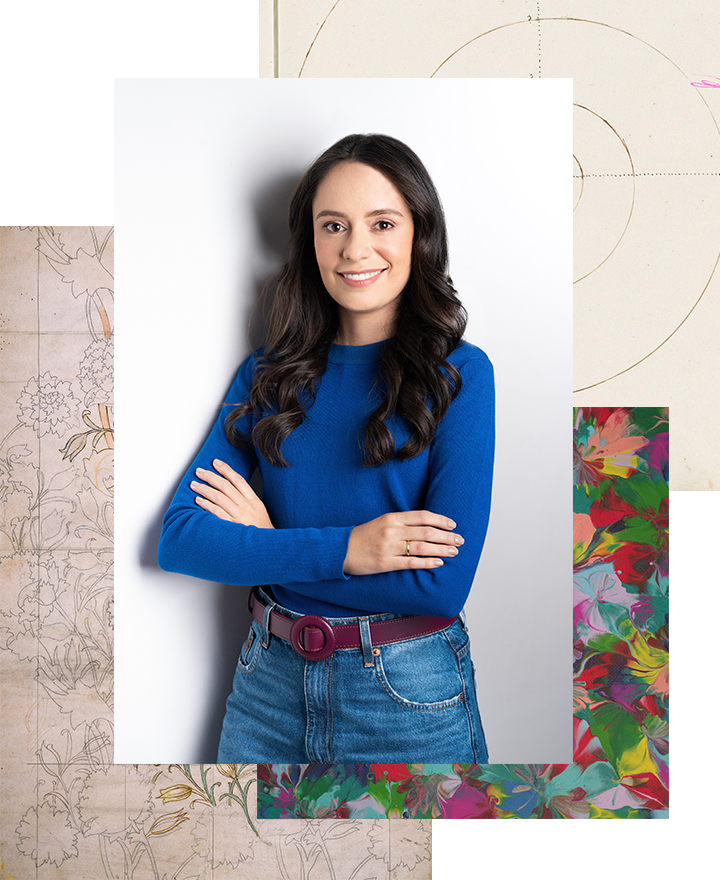
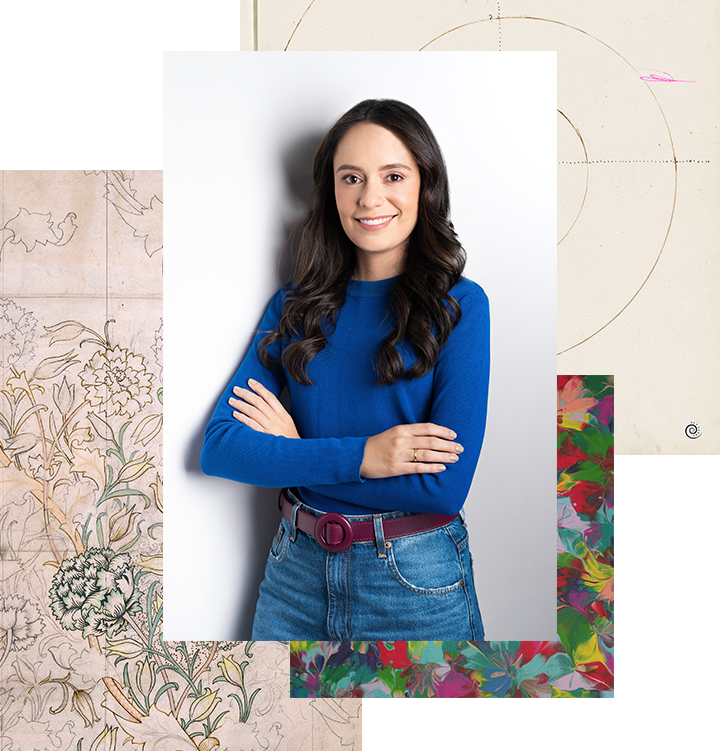
Main picture, css and html text changed

diff --git a/src/Components/Sections/UmPouquinhoSobreMim/AboutMe/index.tsx b/src/Components/Sections/UmPouquinhoSobreMim/AboutMe/index.tsx
@@ -13,10 +13,7 @@ export function AboutMe() {
           Olá! Meu nome é Claudia Eliza Ferreira dos Santos, sou graduada em Psicologia pela UFMG (CRP 04/42649), com ênfase em processos clínicos; pós-graduada em Psicanálise com crianças e adolescentes pela PUC Minas e intitulada Especialista em Psicologia Social pelo Conselho Federal de Psicologia.
         </p>
         <p>
-          Sempre fui uma pessoa inquieta, sensível, questionadora, sonhadora e criativa. Quase cursei Ciências Econômicas, por aquela vontade de transformar o mundo; mas o fascínio pelo universo humano, pelo psiquismo, as diferenças individuais e pela possibilidade de mudar o mundo auxiliando aqueles que desejassem mudar a si mesmos, falou mais alto, escolhi a Psicologia como ofício.
-        </p>
-        <p>
-          O compromisso social é parte importante da minha trajetória, por isso desde a minha graduação, em 2014, concilio o trabalho de psicóloga clínica/psicanalista em consultório particular com o trabalho de psicóloga nas políticas públicas. É dessa forma que mantenho aceso aquele desejo de transformação social, e que as conversas nas sessões dentro do consultório conectam o sofrimento individual com os sentimentos e sofrimentos do mundo. Atendo na minha clínica crianças, adolescentes e adultos, na modalidade online para todo o Brasil e presencial em Contagem-MG.
+          Com mais de 10 anos de experiência, atendo na minha clínica crianças, adolescentes e também adultos, na modalidade online para todo o Brasil e presencial em Contagem-MG. Além disso, concilio o trabalho de psicóloga clínica/psicanalista em consultório particular com o trabalho de psicóloga nas políticas públicas, onde atuei por 8 anos com mediação de conflitos e atualmente faço parte do quadro de psicólogos analistas da Secretaria Municipal de Assistência Social, Segurança Alimentar e Cidadania de Belo Horizonte. Essas experiências me possibilitam compreensão ampliada sobre diversos contextos familiares e sociais.
         </p>
       </div>
     </div>

diff --git a/src/Components/Sections/VamosConversar/Contato/page.module.css b/src/Components/Sections/VamosConversar/Contato/page.module.css
@@ -26,27 +26,28 @@
 .contactInfo {
   text-decoration: none;
   display: flex;
-  align-items: flex-start;
-  gap: 12px;
+  align-items: center;
+  gap: 5px;
   border-width: 3px;
-  border-color: transparent;
+  border-color: #075e549F;
   border-style: solid;
-  border-radius: 20px;
-  padding-top: 5px;
-  padding-bottom: 5px;
-  padding-left: 10px;
-  padding-right: 10px;
+  border-radius: 15px;
+  padding-top: 10px;
+  padding-bottom: 10px;
+  padding-left: 20px;
+  padding-right: 20px;
+  background-color: #075e541A;
 }
 
 .contactInfo > i {
-  font-size: 24px;
-  color: #16348E;
+  font-size: 36px;
+  color: #128c7e;
 }
 
 .contactNumber {
   margin: 0px;
   font-family: 'Outfit', sans-serif;
-  font-size: 16px;
+  font-size: 20px;
   line-height: 20px;
   font-weight: 600;
   color: #2A2F33;
@@ -63,7 +64,7 @@
 @media (max-width: 900px) {
   .contact {
     width: 100%;
-    gap: 40px;
+    gap: 70px;
   }
 
   .contactTitle {
@@ -78,7 +79,22 @@
 @media (max-width: 450px) {
 
   .contact {
-    gap: 20px;
+    gap: 60px;
+  }
+
+  .contactNumber {
+    font-size: 22px;
+  }
+
+  .contactInfo {
+    padding-top: 10px;
+    padding-bottom: 10px;
+    padding-left: 16px;
+    padding-right: 16px;
+  } 
+
+  .contactInfo > i {
+    font-size: 40px;
   }
 
   .contactTitle {
@@ -94,6 +110,21 @@
 
 @media (max-width: 350px) {
 
+  .contactNumber {
+    font-size: 16px;
+  }
+
+  .contactInfo {
+    padding-top: 5px;
+    padding-bottom: 5px;
+    padding-left: 10px;
+    padding-right: 10px;
+  } 
+
+  .contactInfo > i {
+    font-size: 26px;
+  }
+
   .contactTitle {
     font-size: 1.5em;
   }
@@ -102,10 +133,7 @@
 @media (min-width: 901px) {
 
   .contactInfo:hover {
-    border-color: #2A2F33;
-  }
-
-  .contactInfo:active {
-    border-color: #16348E;
+    scale: 1.15;
+    transition-duration: 150ms;
   }
 }

diff --git a/src/Components/Sections/VamosConversar/Contato/index.tsx b/src/Components/Sections/VamosConversar/Contato/index.tsx
@@ -11,7 +11,7 @@ export function Contato() {
           target='_blank'
         >
           <i className='bx bxl-whatsapp'></i>
-          <span className={styles.contactNumber}>(31) 98818-7830</span>
+          <span className={styles.contactNumber}>WhatsApp</span>
         </a>
       </div>
       <Image

diff --git a/src/Components/Sections/UmPouquinhoSobreMim/index.tsx b/src/Components/Sections/UmPouquinhoSobreMim/index.tsx
@@ -16,7 +16,7 @@ function MainPicture() {
     <Image
       src="/claudia.png"
       width={720}
-      height={880}
+      height={751}
       alt="foto da Claudia"
       className={styles.authorPhoto}
     />

diff --git a/src/Components/Sections/AreasEmQuePossoAjudar/page.module.css b/src/Components/Sections/AreasEmQuePossoAjudar/page.module.css
@@ -76,10 +76,10 @@
 @media (max-width: 450px) {
 
   .section {
-    padding-bottom: 41.67px;
+    padding-bottom: 21.67px;
   }
 
   .decoration9 {
-    height: 570px;
+    height: 550px;
   }
 }

diff --git a/src/Components/Sections/ComoSeraANossaJornada/page.module.css b/src/Components/Sections/ComoSeraANossaJornada/page.module.css
@@ -200,7 +200,8 @@
 @media (max-width: 450px) {
 
   .decoration10 {
-    top: 70px;
+    top: 75px;
+    height: 25px;
   }
 
   .decoration11 {
